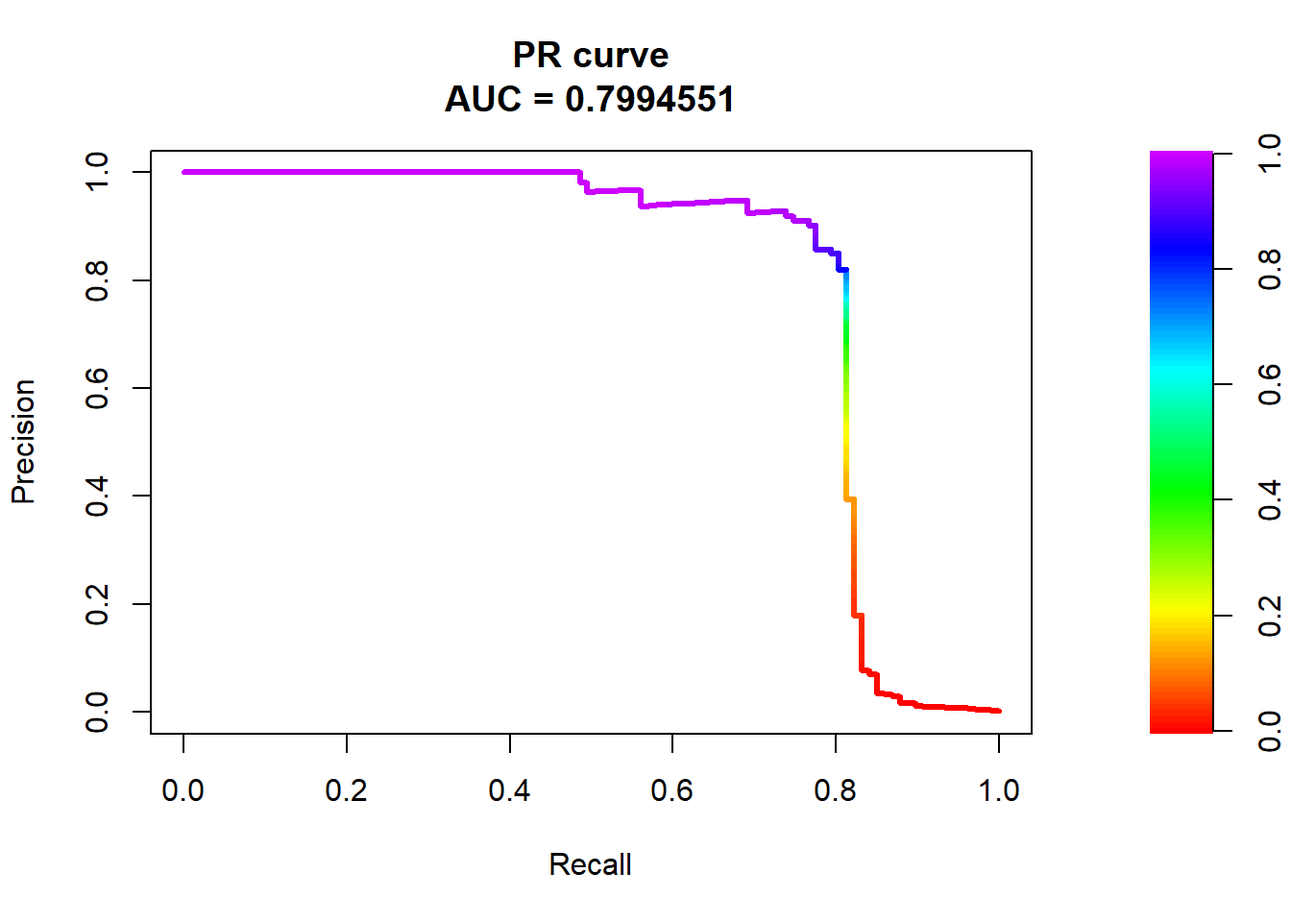
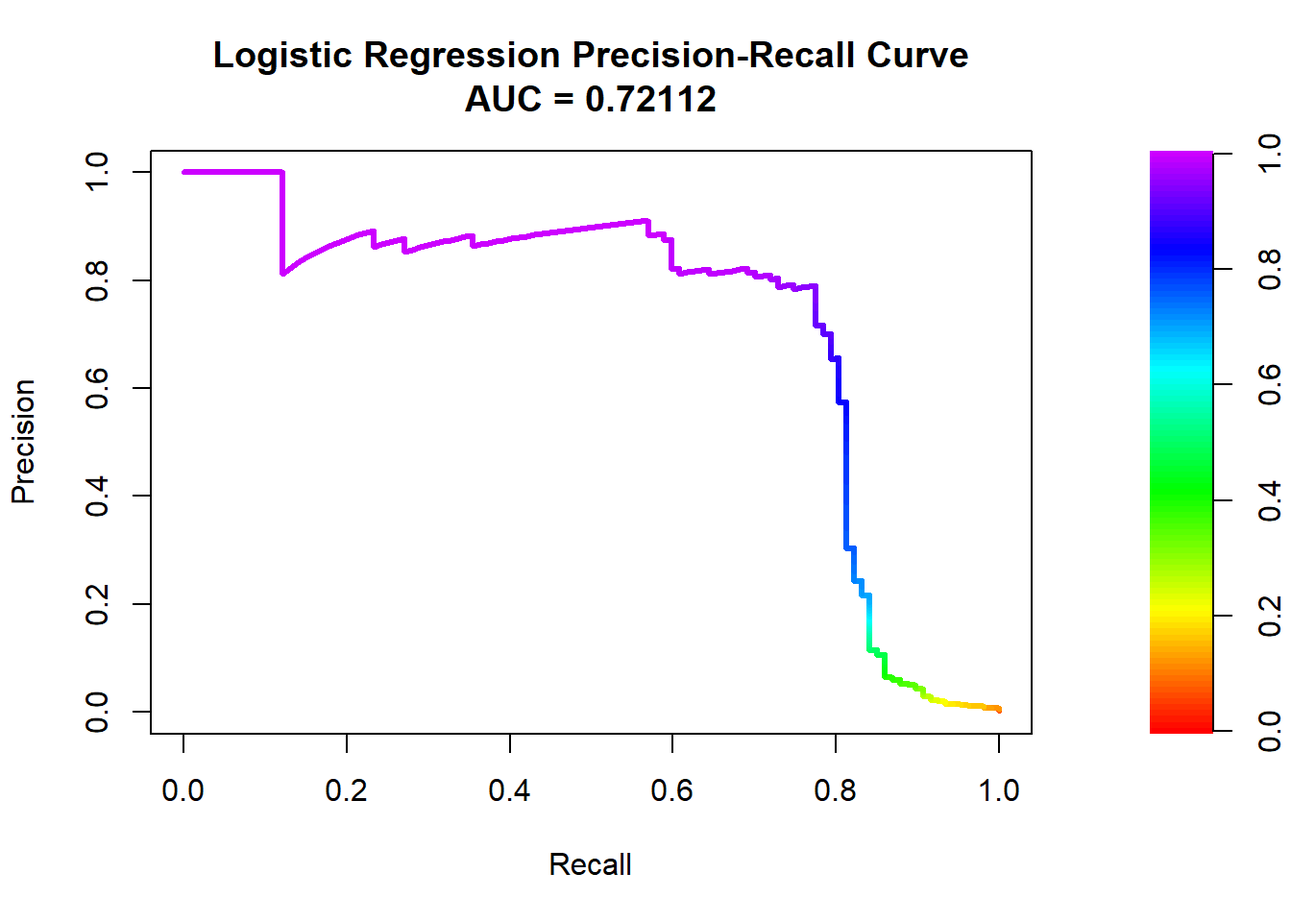
density plot observations on amount

diff --git a/Analysis.html b/Analysis.html
@@ -93,8 +93,8 @@ ul.task-list li input[type="checkbox"] {
 <h1>Reading the data</h1>
 <div class="cell">
 <div class="cell-output-display">
-<div class="datatables html-widget html-fill-item-overflow-hidden html-fill-item" id="htmlwidget-f79335d18cc182fa08c6" style="width:100%;height:auto;"></div>
-<script type="application/json" data-for="htmlwidget-f79335d18cc182fa08c6">{"x":{"filter":"none","vertical":false,"data":[["1","2","3","4","5","6"],[0,0,1,1,2,2],[-1.3598071336738,1.19185711131486,-1.35835406159823,-0.966271711572087,-1.15823309349523,-0.425965884412454],[-0.07278117330984971,0.26615071205963,-1.34016307473609,-0.185226008082898,0.877736754848451,0.960523044882985],[2.53634673796914,0.16648011335321,1.77320934263119,1.79299333957872,1.548717846511,1.14110934232219],[1.37815522427443,0.448154078460911,0.379779593034328,-0.863291275036453,0.403033933955121,-0.168252079760302],[-0.338320769942518,0.0600176492822243,-0.503198133318193,-0.0103088796030823,-0.407193377311653,0.42098688077219],[0.462387777762292,-0.0823608088155687,1.80049938079263,1.24720316752486,0.0959214624684256,-0.0297275516639742],[0.239598554061257,-0.0788029833323113,0.791460956450422,0.23760893977178,0.592940745385545,0.476200948720027],[0.0986979012610507,0.08510165491481041,0.247675786588991,0.377435874652262,-0.270532677192282,0.260314333074874],[0.363786969611213,-0.255425128109186,-1.51465432260583,-1.38702406270197,0.8177393082352939,-0.56867137571251],[0.0907941719789316,-0.166974414004614,0.207642865216696,-0.0549519224713749,0.753074431976354,-0.371407196834471],[-0.551599533260813,1.61272666105479,0.624501459424895,-0.226487263835401,-0.822842877946363,1.34126198001957],[-0.617800855762348,1.06523531137287,0.066083685268831,0.178228225877303,0.53819555014995,0.359893837038039],[-0.991389847235408,0.48909501589608,0.7172927314108311,0.507756869957169,1.3458515932154,-0.358090652573631],[-0.311169353699879,-0.143772296441519,-0.165945922763554,-0.28792374549456,-1.11966983471731,-0.137133700217612],[1.46817697209427,0.635558093258208,2.34586494901581,-0.631418117709045,0.175121130008994,0.517616806555742],[-0.470400525259478,0.463917041022171,-2.89008319444231,-1.0596472454325,-0.451449182813529,0.401725895589603],[0.207971241929242,-0.114804663102346,1.10996937869599,-0.684092786345479,-0.237033239362776,-0.0581328233640131],[0.0257905801985591,-0.183361270123994,-0.121359313195888,1.96577500349538,-0.0381947870352842,0.06865314944254319],[0.403992960255733,-0.145783041325259,-2.26185709530414,-1.2326219700892,0.803486924960175,-0.0331937877876282],[0.251412098239705,-0.0690831352230203,0.5249797252244039,-0.208037781160366,0.408542360392758,0.08496767206820489],[-0.018306777944153,-0.225775248033138,0.247998153469754,-0.108300452035545,-0.009430697132329189,-0.208253514656728],[0.277837575558899,-0.638671952771851,0.7716794019172289,0.00527359678253453,0.79827849458971,-0.559824796253248],[-0.110473910188767,0.101288021253234,0.909412262347719,-0.190320518742841,-0.137458079619063,-0.0263976679795373],[0.06692807491467311,-0.339846475529127,-0.689280956490685,-1.17557533186321,0.141266983824769,-0.371426583174346],[0.128539358273528,0.167170404418143,-0.327641833735251,0.647376034602038,-0.206009587619756,-0.232793816737034],[-0.189114843888824,0.125894532368176,-0.139096571514147,-0.221928844458407,0.502292224181569,0.105914779097957],[0.133558376740387,-0.00898309914322813,-0.0553527940384261,0.0627228487293033,0.219422229513348,0.253844224739337],[-0.0210530534538215,0.0147241691924927,-0.0597518405929204,0.0614576285006353,0.215153147499206,0.08108025692294429],[149.62,2.69,378.66,123.5,69.98999999999999,3.67],[0,0,0,0,0,0]],"container":"<table class=\"display\">\n  <thead>\n    <tr>\n      <th> <\/th>\n      <th>Time<\/th>\n      <th>V1<\/th>\n      <th>V2<\/th>\n      <th>V3<\/th>\n      <th>V4<\/th>\n      <th>V5<\/th>\n      <th>V6<\/th>\n      <th>V7<\/th>\n      <th>V8<\/th>\n      <th>V9<\/th>\n      <th>V10<\/th>\n      <th>V11<\/th>\n      <th>V12<\/th>\n      <th>V13<\/th>\n      <th>V14<\/th>\n      <th>V15<\/th>\n      <th>V16<\/th>\n      <th>V17<\/th>\n      <th>V18<\/th>\n      <th>V19<\/th>\n      <th>V20<\/th>\n      <th>V21<\/th>\n      <th>V22<\/th>\n      <th>V23<\/th>\n      <th>V24<\/th>\n      <th>V25<\/th>\n      <th>V26<\/th>\n      <th>V27<\/th>\n      <th>V28<\/th>\n      <th>Amount<\/th>\n      <th>Class<\/th>\n    <\/tr>\n  <\/thead>\n<\/table>","options":{"columnDefs":[{"className":"dt-right","targets":[1,2,3,4,5,6,7,8,9,10,11,12,13,14,15,16,17,18,19,20,21,22,23,24,25,26,27,28,29,30,31]},{"orderable":false,"targets":0}],"order":[],"autoWidth":false,"orderClasses":false}},"evals":[],"jsHooks":[]}</script>
+<div class="datatables html-widget html-fill-item-overflow-hidden html-fill-item" id="htmlwidget-8ac09557b01484aeed40" style="width:100%;height:auto;"></div>
+<script type="application/json" data-for="htmlwidget-8ac09557b01484aeed40">{"x":{"filter":"none","vertical":false,"data":[["1","2","3","4","5","6"],[0,0,1,1,2,2],[-1.3598071336738,1.19185711131486,-1.35835406159823,-0.966271711572087,-1.15823309349523,-0.425965884412454],[-0.07278117330984971,0.26615071205963,-1.34016307473609,-0.185226008082898,0.877736754848451,0.960523044882985],[2.53634673796914,0.16648011335321,1.77320934263119,1.79299333957872,1.548717846511,1.14110934232219],[1.37815522427443,0.448154078460911,0.379779593034328,-0.863291275036453,0.403033933955121,-0.168252079760302],[-0.338320769942518,0.0600176492822243,-0.503198133318193,-0.0103088796030823,-0.407193377311653,0.42098688077219],[0.462387777762292,-0.0823608088155687,1.80049938079263,1.24720316752486,0.0959214624684256,-0.0297275516639742],[0.239598554061257,-0.0788029833323113,0.791460956450422,0.23760893977178,0.592940745385545,0.476200948720027],[0.0986979012610507,0.08510165491481041,0.247675786588991,0.377435874652262,-0.270532677192282,0.260314333074874],[0.363786969611213,-0.255425128109186,-1.51465432260583,-1.38702406270197,0.8177393082352939,-0.56867137571251],[0.0907941719789316,-0.166974414004614,0.207642865216696,-0.0549519224713749,0.753074431976354,-0.371407196834471],[-0.551599533260813,1.61272666105479,0.624501459424895,-0.226487263835401,-0.822842877946363,1.34126198001957],[-0.617800855762348,1.06523531137287,0.066083685268831,0.178228225877303,0.53819555014995,0.359893837038039],[-0.991389847235408,0.48909501589608,0.7172927314108311,0.507756869957169,1.3458515932154,-0.358090652573631],[-0.311169353699879,-0.143772296441519,-0.165945922763554,-0.28792374549456,-1.11966983471731,-0.137133700217612],[1.46817697209427,0.635558093258208,2.34586494901581,-0.631418117709045,0.175121130008994,0.517616806555742],[-0.470400525259478,0.463917041022171,-2.89008319444231,-1.0596472454325,-0.451449182813529,0.401725895589603],[0.207971241929242,-0.114804663102346,1.10996937869599,-0.684092786345479,-0.237033239362776,-0.0581328233640131],[0.0257905801985591,-0.183361270123994,-0.121359313195888,1.96577500349538,-0.0381947870352842,0.06865314944254319],[0.403992960255733,-0.145783041325259,-2.26185709530414,-1.2326219700892,0.803486924960175,-0.0331937877876282],[0.251412098239705,-0.0690831352230203,0.5249797252244039,-0.208037781160366,0.408542360392758,0.08496767206820489],[-0.018306777944153,-0.225775248033138,0.247998153469754,-0.108300452035545,-0.009430697132329189,-0.208253514656728],[0.277837575558899,-0.638671952771851,0.7716794019172289,0.00527359678253453,0.79827849458971,-0.559824796253248],[-0.110473910188767,0.101288021253234,0.909412262347719,-0.190320518742841,-0.137458079619063,-0.0263976679795373],[0.06692807491467311,-0.339846475529127,-0.689280956490685,-1.17557533186321,0.141266983824769,-0.371426583174346],[0.128539358273528,0.167170404418143,-0.327641833735251,0.647376034602038,-0.206009587619756,-0.232793816737034],[-0.189114843888824,0.125894532368176,-0.139096571514147,-0.221928844458407,0.502292224181569,0.105914779097957],[0.133558376740387,-0.00898309914322813,-0.0553527940384261,0.0627228487293033,0.219422229513348,0.253844224739337],[-0.0210530534538215,0.0147241691924927,-0.0597518405929204,0.0614576285006353,0.215153147499206,0.08108025692294429],[149.62,2.69,378.66,123.5,69.98999999999999,3.67],[0,0,0,0,0,0]],"container":"<table class=\"display\">\n  <thead>\n    <tr>\n      <th> <\/th>\n      <th>Time<\/th>\n      <th>V1<\/th>\n      <th>V2<\/th>\n      <th>V3<\/th>\n      <th>V4<\/th>\n      <th>V5<\/th>\n      <th>V6<\/th>\n      <th>V7<\/th>\n      <th>V8<\/th>\n      <th>V9<\/th>\n      <th>V10<\/th>\n      <th>V11<\/th>\n      <th>V12<\/th>\n      <th>V13<\/th>\n      <th>V14<\/th>\n      <th>V15<\/th>\n      <th>V16<\/th>\n      <th>V17<\/th>\n      <th>V18<\/th>\n      <th>V19<\/th>\n      <th>V20<\/th>\n      <th>V21<\/th>\n      <th>V22<\/th>\n      <th>V23<\/th>\n      <th>V24<\/th>\n      <th>V25<\/th>\n      <th>V26<\/th>\n      <th>V27<\/th>\n      <th>V28<\/th>\n      <th>Amount<\/th>\n      <th>Class<\/th>\n    <\/tr>\n  <\/thead>\n<\/table>","options":{"columnDefs":[{"className":"dt-right","targets":[1,2,3,4,5,6,7,8,9,10,11,12,13,14,15,16,17,18,19,20,21,22,23,24,25,26,27,28,29,30,31]},{"orderable":false,"targets":0}],"order":[],"autoWidth":false,"orderClasses":false}},"evals":[],"jsHooks":[]}</script>
 </div>
 </div>
 </section>
@@ -157,8 +157,8 @@ Note
 <h2 class="anchored" data-anchor-id="exploring-the-data">Exploring the data</h2>
 <div class="cell">
 <div class="cell-output-display">
-<div class="datatables html-widget html-fill-item-overflow-hidden html-fill-item" id="htmlwidget-fc73ac3001e9aba0efaa" style="width:100%;height:auto;"></div>
-<script type="application/json" data-for="htmlwidget-fc73ac3001e9aba0efaa">{"x":{"filter":"none","vertical":false,"data":[["","","","","","","","","","","","","","","","","","","","","","","","","","","","","","","","","","","","","","","","","","","","","","","","","","","","","","","","","","","","","","","","","","","","","","","","","","","","","","","","","","","","","","","","","","","","","","","","","","","","","","","","","","","","","","","","","","","","","","","","","","","","","","","","","","","","","","","","","","","","","","","","","","","","","","","","","","","","","","","","","","","","","","","","","","","","","","","","","","","","","","","","","",""],["","","","","","","","","","","","","","","","","","","","","","","","","","","","","","","","","","","","","","","","","","","","","","","","","","","","","","","","","","","","","","","","","","","","","","","","","","","","","","","","","","","","","","","","","","","","","","","","","","","","","","","","","","","","","","","","","","","","","","","","","","","","","","","","","","","","","","","","","","","","","","","","","","","","","","","","","","","","","","","","","","","","","","","","","","","","","","","","","","","","","","","","","",""],["     Time","     Time","     Time","     Time","     Time","     Time","      V1","      V1","      V1","      V1","      V1","      V1","      V2","      V2","      V2","      V2","      V2","      V2","      V3","      V3","      V3","      V3","      V3","      V3","      V4","      V4","      V4","      V4","      V4","      V4","      V5","      V5","      V5","      V5","      V5","      V5","      V6","      V6","      V6","      V6","      V6","      V6","      V7","      V7","      V7","      V7","      V7","      V7","      V8","      V8","      V8","      V8","      V8","      V8","      V9","      V9","      V9","      V9","      V9","      V9","     V10","     V10","     V10","     V10","     V10","     V10","     V11","     V11","     V11","     V11","     V11","     V11","     V12","     V12","     V12","     V12","     V12","     V12","     V13","     V13","     V13","     V13","     V13","     V13","     V14","     V14","     V14","     V14","     V14","     V14","     V15","     V15","     V15","     V15","     V15","     V15","     V16","     V16","     V16","     V16","     V16","     V16","     V17","     V17","     V17","     V17","     V17","     V17","     V18","     V18","     V18","     V18","     V18","     V18","     V19","     V19","     V19","     V19","     V19","     V19","     V20","     V20","     V20","     V20","     V20","     V20","     V21","     V21","     V21","     V21","     V21","     V21","     V22","     V22","     V22","     V22","     V22","     V22","     V23","     V23","     V23","     V23","     V23","     V23","     V24","     V24","     V24","     V24","     V24","     V24","     V25","     V25","     V25","     V25","     V25","     V25","     V26","     V26","     V26","     V26","     V26","     V26","     V27","     V27","     V27","     V27","     V27","     V27","     V28","     V28","     V28","     V28","     V28","     V28","    Amount","    Amount","    Amount","    Amount","    Amount","    Amount","    Class","    Class","    Class","    Class","    Class","    Class"],["Min.   :     0  ","1st Qu.: 54202  ","Median : 84692  ","Mean   : 94814  ","3rd Qu.:139321  ","Max.   :172792  ","Min.   :-56.40751  ","1st Qu.: -0.92037  ","Median :  0.01811  ","Mean   :  0.00000  ","3rd Qu.:  1.31564  ","Max.   :  2.45493  ","Min.   :-72.71573  ","1st Qu.: -0.59855  ","Median :  0.06549  ","Mean   :  0.00000  ","3rd Qu.:  0.80372  ","Max.   : 22.05773  ","Min.   :-48.3256  ","1st Qu.: -0.8904  ","Median :  0.1799  ","Mean   :  0.0000  ","3rd Qu.:  1.0272  ","Max.   :  9.3826  ","Min.   :-5.68317  ","1st Qu.:-0.84864  ","Median :-0.01985  ","Mean   : 0.00000  ","3rd Qu.: 0.74334  ","Max.   :16.87534  ","Min.   :-113.74331  ","1st Qu.:  -0.69160  ","Median :  -0.05434  ","Mean   :   0.00000  ","3rd Qu.:   0.61193  ","Max.   :  34.80167  ","Min.   :-26.1605  ","1st Qu.: -0.7683  ","Median : -0.2742  ","Mean   :  0.0000  ","3rd Qu.:  0.3986  ","Max.   : 73.3016  ","Min.   :-43.5572  ","1st Qu.: -0.5541  ","Median :  0.0401  ","Mean   :  0.0000  ","3rd Qu.:  0.5704  ","Max.   :120.5895  ","Min.   :-73.21672  ","1st Qu.: -0.20863  ","Median :  0.02236  ","Mean   :  0.00000  ","3rd Qu.:  0.32735  ","Max.   : 20.00721  ","Min.   :-13.43407  ","1st Qu.: -0.64310  ","Median : -0.05143  ","Mean   :  0.00000  ","3rd Qu.:  0.59714  ","Max.   : 15.59500  ","Min.   :-24.58826  ","1st Qu.: -0.53543  ","Median : -0.09292  ","Mean   :  0.00000  ","3rd Qu.:  0.45392  ","Max.   : 23.74514  ","Min.   :-4.79747  ","1st Qu.:-0.76249  ","Median :-0.03276  ","Mean   : 0.00000  ","3rd Qu.: 0.73959  ","Max.   :12.01891  ","Min.   :-18.6837  ","1st Qu.: -0.4056  ","Median :  0.1400  ","Mean   :  0.0000  ","3rd Qu.:  0.6182  ","Max.   :  7.8484  ","Min.   :-5.79188  ","1st Qu.:-0.64854  ","Median :-0.01357  ","Mean   : 0.00000  ","3rd Qu.: 0.66251  ","Max.   : 7.12688  ","Min.   :-19.2143  ","1st Qu.: -0.4256  ","Median :  0.0506  ","Mean   :  0.0000  ","3rd Qu.:  0.4931  ","Max.   : 10.5268  ","Min.   :-4.49894  ","1st Qu.:-0.58288  ","Median : 0.04807  ","Mean   : 0.00000  ","3rd Qu.: 0.64882  ","Max.   : 8.87774  ","Min.   :-14.12985  ","1st Qu.: -0.46804  ","Median :  0.06641  ","Mean   :  0.00000  ","3rd Qu.:  0.52330  ","Max.   : 17.31511  ","Min.   :-25.16280  ","1st Qu.: -0.48375  ","Median : -0.06568  ","Mean   :  0.00000  ","3rd Qu.:  0.39968  ","Max.   :  9.25353  ","Min.   :-9.498746  ","1st Qu.:-0.498850  ","Median :-0.003636  ","Mean   : 0.000000  ","3rd Qu.: 0.500807  ","Max.   : 5.041069  ","Min.   :-7.213527  ","1st Qu.:-0.456299  ","Median : 0.003735  ","Mean   : 0.000000  ","3rd Qu.: 0.458949  ","Max.   : 5.591971  ","Min.   :-54.49772  ","1st Qu.: -0.21172  ","Median : -0.06248  ","Mean   :  0.00000  ","3rd Qu.:  0.13304  ","Max.   : 39.42090  ","Min.   :-34.83038  ","1st Qu.: -0.22839  ","Median : -0.02945  ","Mean   :  0.00000  ","3rd Qu.:  0.18638  ","Max.   : 27.20284  ","Min.   :-10.933144  ","1st Qu.: -0.542350  ","Median :  0.006782  ","Mean   :  0.000000  ","3rd Qu.:  0.528554  ","Max.   : 10.503090  ","Min.   :-44.80774  ","1st Qu.: -0.16185  ","Median : -0.01119  ","Mean   :  0.00000  ","3rd Qu.:  0.14764  ","Max.   : 22.52841  ","Min.   :-2.83663  ","1st Qu.:-0.35459  ","Median : 0.04098  ","Mean   : 0.00000  ","3rd Qu.: 0.43953  ","Max.   : 4.58455  ","Min.   :-10.29540  ","1st Qu.: -0.31715  ","Median :  0.01659  ","Mean   :  0.00000  ","3rd Qu.:  0.35072  ","Max.   :  7.51959  ","Min.   :-2.60455  ","1st Qu.:-0.32698  ","Median :-0.05214  ","Mean   : 0.00000  ","3rd Qu.: 0.24095  ","Max.   : 3.51735  ","Min.   :-22.565679  ","1st Qu.: -0.070840  ","Median :  0.001342  ","Mean   :  0.000000  ","3rd Qu.:  0.091045  ","Max.   : 31.612198  ","Min.   :-15.43008  ","1st Qu.: -0.05296  ","Median :  0.01124  ","Mean   :  0.00000  ","3rd Qu.:  0.07828  ","Max.   : 33.84781  ","Min.   :    0.00  ","1st Qu.:    5.60  ","Median :   22.00  ","Mean   :   88.35  ","3rd Qu.:   77.17  ","Max.   :25691.16  ","Min.   :0.000000  ","1st Qu.:0.000000  ","Median :0.000000  ","Mean   :0.001728  ","3rd Qu.:0.000000  ","Max.   :1.000000  "]],"container":"<table class=\"display\">\n  <thead>\n    <tr>\n      <th> <\/th>\n      <th>Var1<\/th>\n      <th>Var2<\/th>\n      <th>Freq<\/th>\n    <\/tr>\n  <\/thead>\n<\/table>","options":{"columnDefs":[{"orderable":false,"targets":0}],"order":[],"autoWidth":false,"orderClasses":false}},"evals":[],"jsHooks":[]}</script>
+<div class="datatables html-widget html-fill-item-overflow-hidden html-fill-item" id="htmlwidget-1d9b01b6543c174c0c8b" style="width:100%;height:auto;"></div>
+<script type="application/json" data-for="htmlwidget-1d9b01b6543c174c0c8b">{"x":{"filter":"none","vertical":false,"data":[["","","","","","","","","","","","","","","","","","","","","","","","","","","","","","","","","","","","","","","","","","","","","","","","","","","","","","","","","","","","","","","","","","","","","","","","","","","","","","","","","","","","","","","","","","","","","","","","","","","","","","","","","","","","","","","","","","","","","","","","","","","","","","","","","","","","","","","","","","","","","","","","","","","","","","","","","","","","","","","","","","","","","","","","","","","","","","","","","","","","","","","","","",""],["","","","","","","","","","","","","","","","","","","","","","","","","","","","","","","","","","","","","","","","","","","","","","","","","","","","","","","","","","","","","","","","","","","","","","","","","","","","","","","","","","","","","","","","","","","","","","","","","","","","","","","","","","","","","","","","","","","","","","","","","","","","","","","","","","","","","","","","","","","","","","","","","","","","","","","","","","","","","","","","","","","","","","","","","","","","","","","","","","","","","","","","","",""],["     Time","     Time","     Time","     Time","     Time","     Time","      V1","      V1","      V1","      V1","      V1","      V1","      V2","      V2","      V2","      V2","      V2","      V2","      V3","      V3","      V3","      V3","      V3","      V3","      V4","      V4","      V4","      V4","      V4","      V4","      V5","      V5","      V5","      V5","      V5","      V5","      V6","      V6","      V6","      V6","      V6","      V6","      V7","      V7","      V7","      V7","      V7","      V7","      V8","      V8","      V8","      V8","      V8","      V8","      V9","      V9","      V9","      V9","      V9","      V9","     V10","     V10","     V10","     V10","     V10","     V10","     V11","     V11","     V11","     V11","     V11","     V11","     V12","     V12","     V12","     V12","     V12","     V12","     V13","     V13","     V13","     V13","     V13","     V13","     V14","     V14","     V14","     V14","     V14","     V14","     V15","     V15","     V15","     V15","     V15","     V15","     V16","     V16","     V16","     V16","     V16","     V16","     V17","     V17","     V17","     V17","     V17","     V17","     V18","     V18","     V18","     V18","     V18","     V18","     V19","     V19","     V19","     V19","     V19","     V19","     V20","     V20","     V20","     V20","     V20","     V20","     V21","     V21","     V21","     V21","     V21","     V21","     V22","     V22","     V22","     V22","     V22","     V22","     V23","     V23","     V23","     V23","     V23","     V23","     V24","     V24","     V24","     V24","     V24","     V24","     V25","     V25","     V25","     V25","     V25","     V25","     V26","     V26","     V26","     V26","     V26","     V26","     V27","     V27","     V27","     V27","     V27","     V27","     V28","     V28","     V28","     V28","     V28","     V28","    Amount","    Amount","    Amount","    Amount","    Amount","    Amount","    Class","    Class","    Class","    Class","    Class","    Class"],["Min.   :     0  ","1st Qu.: 54202  ","Median : 84692  ","Mean   : 94814  ","3rd Qu.:139321  ","Max.   :172792  ","Min.   :-56.40751  ","1st Qu.: -0.92037  ","Median :  0.01811  ","Mean   :  0.00000  ","3rd Qu.:  1.31564  ","Max.   :  2.45493  ","Min.   :-72.71573  ","1st Qu.: -0.59855  ","Median :  0.06549  ","Mean   :  0.00000  ","3rd Qu.:  0.80372  ","Max.   : 22.05773  ","Min.   :-48.3256  ","1st Qu.: -0.8904  ","Median :  0.1799  ","Mean   :  0.0000  ","3rd Qu.:  1.0272  ","Max.   :  9.3826  ","Min.   :-5.68317  ","1st Qu.:-0.84864  ","Median :-0.01985  ","Mean   : 0.00000  ","3rd Qu.: 0.74334  ","Max.   :16.87534  ","Min.   :-113.74331  ","1st Qu.:  -0.69160  ","Median :  -0.05434  ","Mean   :   0.00000  ","3rd Qu.:   0.61193  ","Max.   :  34.80167  ","Min.   :-26.1605  ","1st Qu.: -0.7683  ","Median : -0.2742  ","Mean   :  0.0000  ","3rd Qu.:  0.3986  ","Max.   : 73.3016  ","Min.   :-43.5572  ","1st Qu.: -0.5541  ","Median :  0.0401  ","Mean   :  0.0000  ","3rd Qu.:  0.5704  ","Max.   :120.5895  ","Min.   :-73.21672  ","1st Qu.: -0.20863  ","Median :  0.02236  ","Mean   :  0.00000  ","3rd Qu.:  0.32735  ","Max.   : 20.00721  ","Min.   :-13.43407  ","1st Qu.: -0.64310  ","Median : -0.05143  ","Mean   :  0.00000  ","3rd Qu.:  0.59714  ","Max.   : 15.59500  ","Min.   :-24.58826  ","1st Qu.: -0.53543  ","Median : -0.09292  ","Mean   :  0.00000  ","3rd Qu.:  0.45392  ","Max.   : 23.74514  ","Min.   :-4.79747  ","1st Qu.:-0.76249  ","Median :-0.03276  ","Mean   : 0.00000  ","3rd Qu.: 0.73959  ","Max.   :12.01891  ","Min.   :-18.6837  ","1st Qu.: -0.4056  ","Median :  0.1400  ","Mean   :  0.0000  ","3rd Qu.:  0.6182  ","Max.   :  7.8484  ","Min.   :-5.79188  ","1st Qu.:-0.64854  ","Median :-0.01357  ","Mean   : 0.00000  ","3rd Qu.: 0.66251  ","Max.   : 7.12688  ","Min.   :-19.2143  ","1st Qu.: -0.4256  ","Median :  0.0506  ","Mean   :  0.0000  ","3rd Qu.:  0.4931  ","Max.   : 10.5268  ","Min.   :-4.49894  ","1st Qu.:-0.58288  ","Median : 0.04807  ","Mean   : 0.00000  ","3rd Qu.: 0.64882  ","Max.   : 8.87774  ","Min.   :-14.12985  ","1st Qu.: -0.46804  ","Median :  0.06641  ","Mean   :  0.00000  ","3rd Qu.:  0.52330  ","Max.   : 17.31511  ","Min.   :-25.16280  ","1st Qu.: -0.48375  ","Median : -0.06568  ","Mean   :  0.00000  ","3rd Qu.:  0.39968  ","Max.   :  9.25353  ","Min.   :-9.498746  ","1st Qu.:-0.498850  ","Median :-0.003636  ","Mean   : 0.000000  ","3rd Qu.: 0.500807  ","Max.   : 5.041069  ","Min.   :-7.213527  ","1st Qu.:-0.456299  ","Median : 0.003735  ","Mean   : 0.000000  ","3rd Qu.: 0.458949  ","Max.   : 5.591971  ","Min.   :-54.49772  ","1st Qu.: -0.21172  ","Median : -0.06248  ","Mean   :  0.00000  ","3rd Qu.:  0.13304  ","Max.   : 39.42090  ","Min.   :-34.83038  ","1st Qu.: -0.22839  ","Median : -0.02945  ","Mean   :  0.00000  ","3rd Qu.:  0.18638  ","Max.   : 27.20284  ","Min.   :-10.933144  ","1st Qu.: -0.542350  ","Median :  0.006782  ","Mean   :  0.000000  ","3rd Qu.:  0.528554  ","Max.   : 10.503090  ","Min.   :-44.80774  ","1st Qu.: -0.16185  ","Median : -0.01119  ","Mean   :  0.00000  ","3rd Qu.:  0.14764  ","Max.   : 22.52841  ","Min.   :-2.83663  ","1st Qu.:-0.35459  ","Median : 0.04098  ","Mean   : 0.00000  ","3rd Qu.: 0.43953  ","Max.   : 4.58455  ","Min.   :-10.29540  ","1st Qu.: -0.31715  ","Median :  0.01659  ","Mean   :  0.00000  ","3rd Qu.:  0.35072  ","Max.   :  7.51959  ","Min.   :-2.60455  ","1st Qu.:-0.32698  ","Median :-0.05214  ","Mean   : 0.00000  ","3rd Qu.: 0.24095  ","Max.   : 3.51735  ","Min.   :-22.565679  ","1st Qu.: -0.070840  ","Median :  0.001342  ","Mean   :  0.000000  ","3rd Qu.:  0.091045  ","Max.   : 31.612198  ","Min.   :-15.43008  ","1st Qu.: -0.05296  ","Median :  0.01124  ","Mean   :  0.00000  ","3rd Qu.:  0.07828  ","Max.   : 33.84781  ","Min.   :    0.00  ","1st Qu.:    5.60  ","Median :   22.00  ","Mean   :   88.35  ","3rd Qu.:   77.17  ","Max.   :25691.16  ","Min.   :0.000000  ","1st Qu.:0.000000  ","Median :0.000000  ","Mean   :0.001728  ","3rd Qu.:0.000000  ","Max.   :1.000000  "]],"container":"<table class=\"display\">\n  <thead>\n    <tr>\n      <th> <\/th>\n      <th>Var1<\/th>\n      <th>Var2<\/th>\n      <th>Freq<\/th>\n    <\/tr>\n  <\/thead>\n<\/table>","options":{"columnDefs":[{"orderable":false,"targets":0}],"order":[],"autoWidth":false,"orderClasses":false}},"evals":[],"jsHooks":[]}</script>
 </div>
 </div>
 <section id="check-class-imbalance" class="level3">
@@ -199,6 +199,16 @@ Note
 </div>
 </div>
 </div>
+<div class="callout callout-style-default callout-note callout-titled">
+<div class="callout-header d-flex align-content-center">
+<div class="callout-icon-container">
+<i class="callout-icon"></i>
+</div>
+<div class="callout-title-container flex-fill">
+Note
+</div>
+</div>
+<div class="callout-body-container callout-body">
 <p><strong>Observation for Class Distribution Graph</strong></p>
 <p>The bar graph visually represents the distribution of fraudulent and non-fraudulent transactions in the dataset.</p>
 <ul>
@@ -219,6 +229,8 @@ Note
 <li>Need for Resampling Techniques:</li>
 </ul>
 <p>Due to this imbalance, techniques such as oversampling, undersampling, or synthetic data generation (e.g., SMOTE or ROSE) are necessary to balance the dataset and improve model learning.</p>
+</div>
+</div>
 </section>
 <section id="correlation-heatmap" class="level3">
 <h3 class="anchored" data-anchor-id="correlation-heatmap">Correlation Heatmap</h3>
@@ -243,6 +255,38 @@ Note
 </div>
 </div>
 </div>
+<div class="cell">
+<div class="cell-output-display">
+<div>
+<figure class="figure">
+<p><img src="Analysis_files/figure-html/unnamed-chunk-9-1.png" class="img-fluid figure-img" width="672"></p>
+</figure>
+</div>
+</div>
+</div>
+<div class="callout callout-style-default callout-note callout-titled">
+<div class="callout-header d-flex align-content-center">
+<div class="callout-icon-container">
+<i class="callout-icon"></i>
+</div>
+<div class="callout-title-container flex-fill">
+Note
+</div>
+</div>
+<div class="callout-body-container callout-body">
+<p>Based on the density plots, some of the interesting observations are:</p>
+<p><strong>Fraudulent Transactions Show Distinct Density Distributions</strong></p>
+<p>Fraudulent transactions (Class 1) exhibit different density peaks compared to legitimate transactions (Class 0). The density for fraud cases is generally lower, but it is concentrated in specific transaction amount ranges.</p>
+<p><strong>Fraud Occurrence Increases with Higher Transaction Amounts</strong></p>
+<p>As we move to the “High” and “Very High” transaction amount categories, fraudulent transactions appear more frequently.This suggests that fraudsters often target higher-value transactions, possibly to maximize their financial gain.</p>
+<p><strong>Legitimate Transactions Are More Evenly Distributed</strong></p>
+<p>The density of legitimate transactions remains relatively high across all amount categories, indicating that customers make a wide range of purchases. Unlike fraudulent transactions, they do not exhibit sharp density spikes in specific ranges.</p>
+<p><strong>Overlapping Distributions in Lower Amount Categories</strong></p>
+<p>In the “Low” and “Medium” amount bins, there is significant overlap between fraudulent and legitimate transactions, making fraud detection more challenging in this range. This suggests that lower-value fraudulent transactions may be harder to differentiate from normal purchases.</p>
+<p><strong>Potential for Threshold-Based Fraud Detection</strong></p>
+<p>Given the differences in density, setting different risk thresholds based on transaction amount could improve fraud detection accuracy. Higher-value transactions might need stricter anomaly detection rules compared to low-value ones.</p>
+</div>
+</div>
 </section>
 <section id="boxplot-to-detect-anomalies" class="level3">
 <h3 class="anchored" data-anchor-id="boxplot-to-detect-anomalies">Boxplot to detect anomalies</h3>
@@ -250,7 +294,7 @@ Note
 <div class="cell-output-display">
 <div>
 <figure class="figure">
-<p><img src="Analysis_files/figure-html/unnamed-chunk-9-1.png" class="img-fluid figure-img" width="672"></p>
+<p><img src="Analysis_files/figure-html/unnamed-chunk-10-1.png" class="img-fluid figure-img" width="672"></p>
 </figure>
 </div>
 </div>
@@ -261,8 +305,8 @@ Note
 <h2 class="anchored" data-anchor-id="data-preprocessing">Data Preprocessing</h2>
 <div class="cell">
 <div class="cell-output-display">
-<div class="datatables html-widget html-fill-item-overflow-hidden html-fill-item" id="htmlwidget-29808106fdfb2e615d44" style="width:100%;height:auto;"></div>
-<script type="application/json" data-for="htmlwidget-29808106fdfb2e615d44">{"x":{"filter":"none","vertical":false,"data":[["1","2","3","4","5","6"],[-1.3598071336738,1.19185711131486,-1.35835406159823,-0.966271711572087,-1.15823309349523,-0.425965884412454],[-0.07278117330984971,0.26615071205963,-1.34016307473609,-0.185226008082898,0.877736754848451,0.960523044882985],[2.53634673796914,0.16648011335321,1.77320934263119,1.79299333957872,1.548717846511,1.14110934232219],[1.37815522427443,0.448154078460911,0.379779593034328,-0.863291275036453,0.403033933955121,-0.168252079760302],[-0.338320769942518,0.0600176492822243,-0.503198133318193,-0.0103088796030823,-0.407193377311653,0.42098688077219],[0.462387777762292,-0.0823608088155687,1.80049938079263,1.24720316752486,0.0959214624684256,-0.0297275516639742],[0.239598554061257,-0.0788029833323113,0.791460956450422,0.23760893977178,0.592940745385545,0.476200948720027],[0.0986979012610507,0.08510165491481041,0.247675786588991,0.377435874652262,-0.270532677192282,0.260314333074874],[0.363786969611213,-0.255425128109186,-1.51465432260583,-1.38702406270197,0.8177393082352939,-0.56867137571251],[0.0907941719789316,-0.166974414004614,0.207642865216696,-0.0549519224713749,0.753074431976354,-0.371407196834471],[-0.551599533260813,1.61272666105479,0.624501459424895,-0.226487263835401,-0.822842877946363,1.34126198001957],[-0.617800855762348,1.06523531137287,0.066083685268831,0.178228225877303,0.53819555014995,0.359893837038039],[-0.991389847235408,0.48909501589608,0.7172927314108311,0.507756869957169,1.3458515932154,-0.358090652573631],[-0.311169353699879,-0.143772296441519,-0.165945922763554,-0.28792374549456,-1.11966983471731,-0.137133700217612],[1.46817697209427,0.635558093258208,2.34586494901581,-0.631418117709045,0.175121130008994,0.517616806555742],[-0.470400525259478,0.463917041022171,-2.89008319444231,-1.0596472454325,-0.451449182813529,0.401725895589603],[0.207971241929242,-0.114804663102346,1.10996937869599,-0.684092786345479,-0.237033239362776,-0.0581328233640131],[0.0257905801985591,-0.183361270123994,-0.121359313195888,1.96577500349538,-0.0381947870352842,0.06865314944254319],[0.403992960255733,-0.145783041325259,-2.26185709530414,-1.2326219700892,0.803486924960175,-0.0331937877876282],[0.251412098239705,-0.0690831352230203,0.5249797252244039,-0.208037781160366,0.408542360392758,0.08496767206820489],[-0.018306777944153,-0.225775248033138,0.247998153469754,-0.108300452035545,-0.009430697132329189,-0.208253514656728],[0.277837575558899,-0.638671952771851,0.7716794019172289,0.00527359678253453,0.79827849458971,-0.559824796253248],[-0.110473910188767,0.101288021253234,0.909412262347719,-0.190320518742841,-0.137458079619063,-0.0263976679795373],[0.06692807491467311,-0.339846475529127,-0.689280956490685,-1.17557533186321,0.141266983824769,-0.371426583174346],[0.128539358273528,0.167170404418143,-0.327641833735251,0.647376034602038,-0.206009587619756,-0.232793816737034],[-0.189114843888824,0.125894532368176,-0.139096571514147,-0.221928844458407,0.502292224181569,0.105914779097957],[0.133558376740387,-0.00898309914322813,-0.0553527940384261,0.0627228487293033,0.219422229513348,0.253844224739337],[-0.0210530534538215,0.0147241691924927,-0.0597518405929204,0.0614576285006353,0.215153147499206,0.08108025692294429],[0.005823793086804955,0.0001047052760560442,0.01473892187040212,0.004807100963911322,0.00272428337217938,0.0001428506926117777],[0,0,0,0,0,0]],"container":"<table class=\"display\">\n  <thead>\n    <tr>\n      <th> <\/th>\n      <th>V1<\/th>\n      <th>V2<\/th>\n      <th>V3<\/th>\n      <th>V4<\/th>\n      <th>V5<\/th>\n      <th>V6<\/th>\n      <th>V7<\/th>\n      <th>V8<\/th>\n      <th>V9<\/th>\n      <th>V10<\/th>\n      <th>V11<\/th>\n      <th>V12<\/th>\n      <th>V13<\/th>\n      <th>V14<\/th>\n      <th>V15<\/th>\n      <th>V16<\/th>\n      <th>V17<\/th>\n      <th>V18<\/th>\n      <th>V19<\/th>\n      <th>V20<\/th>\n      <th>V21<\/th>\n      <th>V22<\/th>\n      <th>V23<\/th>\n      <th>V24<\/th>\n      <th>V25<\/th>\n      <th>V26<\/th>\n      <th>V27<\/th>\n      <th>V28<\/th>\n      <th>Amount<\/th>\n      <th>Class<\/th>\n    <\/tr>\n  <\/thead>\n<\/table>","options":{"columnDefs":[{"className":"dt-right","targets":[1,2,3,4,5,6,7,8,9,10,11,12,13,14,15,16,17,18,19,20,21,22,23,24,25,26,27,28,29,30]},{"orderable":false,"targets":0}],"order":[],"autoWidth":false,"orderClasses":false}},"evals":[],"jsHooks":[]}</script>
+<div class="datatables html-widget html-fill-item-overflow-hidden html-fill-item" id="htmlwidget-2dbae1da16a0ea25e87c" style="width:100%;height:auto;"></div>
+<script type="application/json" data-for="htmlwidget-2dbae1da16a0ea25e87c">{"x":{"filter":"none","vertical":false,"data":[["1","2","3","4","5","6"],[-1.3598071336738,1.19185711131486,-1.35835406159823,-0.966271711572087,-1.15823309349523,-0.425965884412454],[-0.07278117330984971,0.26615071205963,-1.34016307473609,-0.185226008082898,0.877736754848451,0.960523044882985],[2.53634673796914,0.16648011335321,1.77320934263119,1.79299333957872,1.548717846511,1.14110934232219],[1.37815522427443,0.448154078460911,0.379779593034328,-0.863291275036453,0.403033933955121,-0.168252079760302],[-0.338320769942518,0.0600176492822243,-0.503198133318193,-0.0103088796030823,-0.407193377311653,0.42098688077219],[0.462387777762292,-0.0823608088155687,1.80049938079263,1.24720316752486,0.0959214624684256,-0.0297275516639742],[0.239598554061257,-0.0788029833323113,0.791460956450422,0.23760893977178,0.592940745385545,0.476200948720027],[0.0986979012610507,0.08510165491481041,0.247675786588991,0.377435874652262,-0.270532677192282,0.260314333074874],[0.363786969611213,-0.255425128109186,-1.51465432260583,-1.38702406270197,0.8177393082352939,-0.56867137571251],[0.0907941719789316,-0.166974414004614,0.207642865216696,-0.0549519224713749,0.753074431976354,-0.371407196834471],[-0.551599533260813,1.61272666105479,0.624501459424895,-0.226487263835401,-0.822842877946363,1.34126198001957],[-0.617800855762348,1.06523531137287,0.066083685268831,0.178228225877303,0.53819555014995,0.359893837038039],[-0.991389847235408,0.48909501589608,0.7172927314108311,0.507756869957169,1.3458515932154,-0.358090652573631],[-0.311169353699879,-0.143772296441519,-0.165945922763554,-0.28792374549456,-1.11966983471731,-0.137133700217612],[1.46817697209427,0.635558093258208,2.34586494901581,-0.631418117709045,0.175121130008994,0.517616806555742],[-0.470400525259478,0.463917041022171,-2.89008319444231,-1.0596472454325,-0.451449182813529,0.401725895589603],[0.207971241929242,-0.114804663102346,1.10996937869599,-0.684092786345479,-0.237033239362776,-0.0581328233640131],[0.0257905801985591,-0.183361270123994,-0.121359313195888,1.96577500349538,-0.0381947870352842,0.06865314944254319],[0.403992960255733,-0.145783041325259,-2.26185709530414,-1.2326219700892,0.803486924960175,-0.0331937877876282],[0.251412098239705,-0.0690831352230203,0.5249797252244039,-0.208037781160366,0.408542360392758,0.08496767206820489],[-0.018306777944153,-0.225775248033138,0.247998153469754,-0.108300452035545,-0.009430697132329189,-0.208253514656728],[0.277837575558899,-0.638671952771851,0.7716794019172289,0.00527359678253453,0.79827849458971,-0.559824796253248],[-0.110473910188767,0.101288021253234,0.909412262347719,-0.190320518742841,-0.137458079619063,-0.0263976679795373],[0.06692807491467311,-0.339846475529127,-0.689280956490685,-1.17557533186321,0.141266983824769,-0.371426583174346],[0.128539358273528,0.167170404418143,-0.327641833735251,0.647376034602038,-0.206009587619756,-0.232793816737034],[-0.189114843888824,0.125894532368176,-0.139096571514147,-0.221928844458407,0.502292224181569,0.105914779097957],[0.133558376740387,-0.00898309914322813,-0.0553527940384261,0.0627228487293033,0.219422229513348,0.253844224739337],[-0.0210530534538215,0.0147241691924927,-0.0597518405929204,0.0614576285006353,0.215153147499206,0.08108025692294429],[0.005823793086804955,0.0001047052760560442,0.01473892187040212,0.004807100963911322,0.00272428337217938,0.0001428506926117777],[0,0,0,0,0,0],["Very High","Low","Very High","Very High","High","Low"]],"container":"<table class=\"display\">\n  <thead>\n    <tr>\n      <th> <\/th>\n      <th>V1<\/th>\n      <th>V2<\/th>\n      <th>V3<\/th>\n      <th>V4<\/th>\n      <th>V5<\/th>\n      <th>V6<\/th>\n      <th>V7<\/th>\n      <th>V8<\/th>\n      <th>V9<\/th>\n      <th>V10<\/th>\n      <th>V11<\/th>\n      <th>V12<\/th>\n      <th>V13<\/th>\n      <th>V14<\/th>\n      <th>V15<\/th>\n      <th>V16<\/th>\n      <th>V17<\/th>\n      <th>V18<\/th>\n      <th>V19<\/th>\n      <th>V20<\/th>\n      <th>V21<\/th>\n      <th>V22<\/th>\n      <th>V23<\/th>\n      <th>V24<\/th>\n      <th>V25<\/th>\n      <th>V26<\/th>\n      <th>V27<\/th>\n      <th>V28<\/th>\n      <th>Amount<\/th>\n      <th>Class<\/th>\n      <th>Amount_Category<\/th>\n    <\/tr>\n  <\/thead>\n<\/table>","options":{"columnDefs":[{"className":"dt-right","targets":[1,2,3,4,5,6,7,8,9,10,11,12,13,14,15,16,17,18,19,20,21,22,23,24,25,26,27,28,29,30]},{"orderable":false,"targets":0}],"order":[],"autoWidth":false,"orderClasses":false}},"evals":[],"jsHooks":[]}</script>
 </div>
 </div>
 <ol type="1">
@@ -313,26 +357,26 @@ Note
 
           Reference
 Prediction     0     1
-         0 56229    17
-         1   625    90
+         0 56174    17
+         1   680    90
                                           
-               Accuracy : 0.9887          
-                 95% CI : (0.9878, 0.9896)
+               Accuracy : 0.9878          
+                 95% CI : (0.9868, 0.9887)
     No Information Rate : 0.9981          
     P-Value [Acc &gt; NIR] : 1               
                                           
-                  Kappa : 0.2164          
+                  Kappa : 0.2026          
                                           
  Mcnemar's Test P-Value : &lt;2e-16          
                                           
-            Sensitivity : 0.9890          
+            Sensitivity : 0.9880          
             Specificity : 0.8411          
          Pos Pred Value : 0.9997          
-         Neg Pred Value : 0.1259          
+         Neg Pred Value : 0.1169          
              Prevalence : 0.9981          
-         Detection Rate : 0.9871          
-   Detection Prevalence : 0.9874          
-      Balanced Accuracy : 0.9151          
+         Detection Rate : 0.9862          
+   Detection Prevalence : 0.9865          
+      Balanced Accuracy : 0.9146          
                                           
        'Positive' Class : 0               
                                           </code></pre>
@@ -344,7 +388,7 @@ Prediction     0     1
 <div class="cell-output-display">
 <div>
 <figure class="figure">
-<p><img src="Analysis_files/figure-html/unnamed-chunk-14-1.png" class="img-fluid figure-img" width="672"></p>
+<p><img src="Analysis_files/figure-html/unnamed-chunk-15-1.png" class="img-fluid figure-img" width="672"></p>
 </figure>
 </div>
 </div>
@@ -359,36 +403,36 @@ Prediction     0     1
 
           Reference
 Prediction     0     1
-         0 56803    20
-         1    51    87
-                                         
-               Accuracy : 0.9988         
-                 95% CI : (0.9984, 0.999)
-    No Information Rate : 0.9981         
-    P-Value [Acc &gt; NIR] : 0.0001363      
-                                         
-                  Kappa : 0.7096         
-                                         
- Mcnemar's Test P-Value : 0.0003704      
-                                         
-            Sensitivity : 0.9991         
-            Specificity : 0.8131         
-         Pos Pred Value : 0.9996         
-         Neg Pred Value : 0.6304         
-             Prevalence : 0.9981         
-         Detection Rate : 0.9972         
-   Detection Prevalence : 0.9976         
-      Balanced Accuracy : 0.9061         
-                                         
-       'Positive' Class : 0              
-                                         </code></pre>
+         0 56804    19
+         1    50    88
+                                          
+               Accuracy : 0.9988          
+                 95% CI : (0.9985, 0.9991)
+    No Information Rate : 0.9981          
+    P-Value [Acc &gt; NIR] : 5.63e-05        
+                                          
+                  Kappa : 0.7178          
+                                          
+ Mcnemar's Test P-Value : 0.0003043       
+                                          
+            Sensitivity : 0.9991          
+            Specificity : 0.8224          
+         Pos Pred Value : 0.9997          
+         Neg Pred Value : 0.6377          
+             Prevalence : 0.9981          
+         Detection Rate : 0.9972          
+   Detection Prevalence : 0.9976          
+      Balanced Accuracy : 0.9108          
+                                          
+       'Positive' Class : 0               
+                                          </code></pre>
 </div>
 </div>
 <div class="cell">
 <div class="cell-output-display">
 <div>
 <figure class="figure">
-<p><img src="Analysis_files/figure-html/unnamed-chunk-16-1.png" class="img-fluid figure-img" width="672"></p>
+<p><img src="Analysis_files/figure-html/unnamed-chunk-17-1.png" class="img-fluid figure-img" width="672"></p>
 </figure>
 </div>
 </div>
@@ -443,7 +487,7 @@ Prediction     0     1
 <div class="cell-output-display">
 <div>
 <figure class="figure">
-<p><img src="Analysis_files/figure-html/unnamed-chunk-21-1.png" class="img-fluid figure-img" width="672"></p>
+<p><img src="Analysis_files/figure-html/unnamed-chunk-22-1.png" class="img-fluid figure-img" width="672"></p>
 </figure>
 </div>
 </div>
